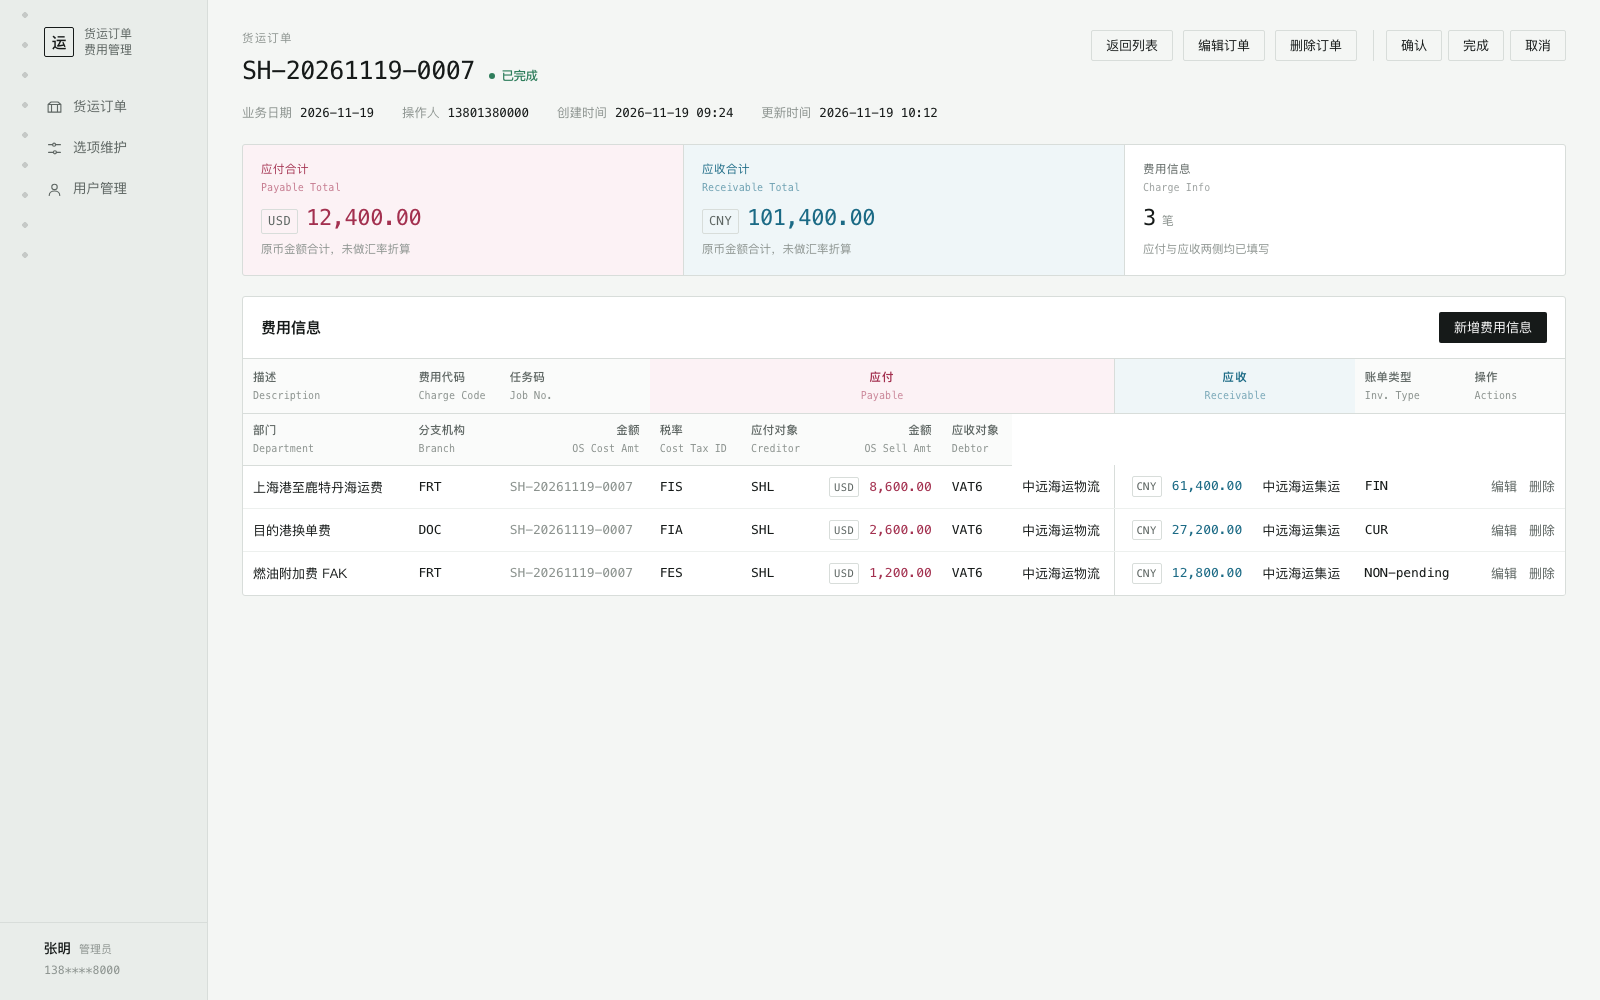
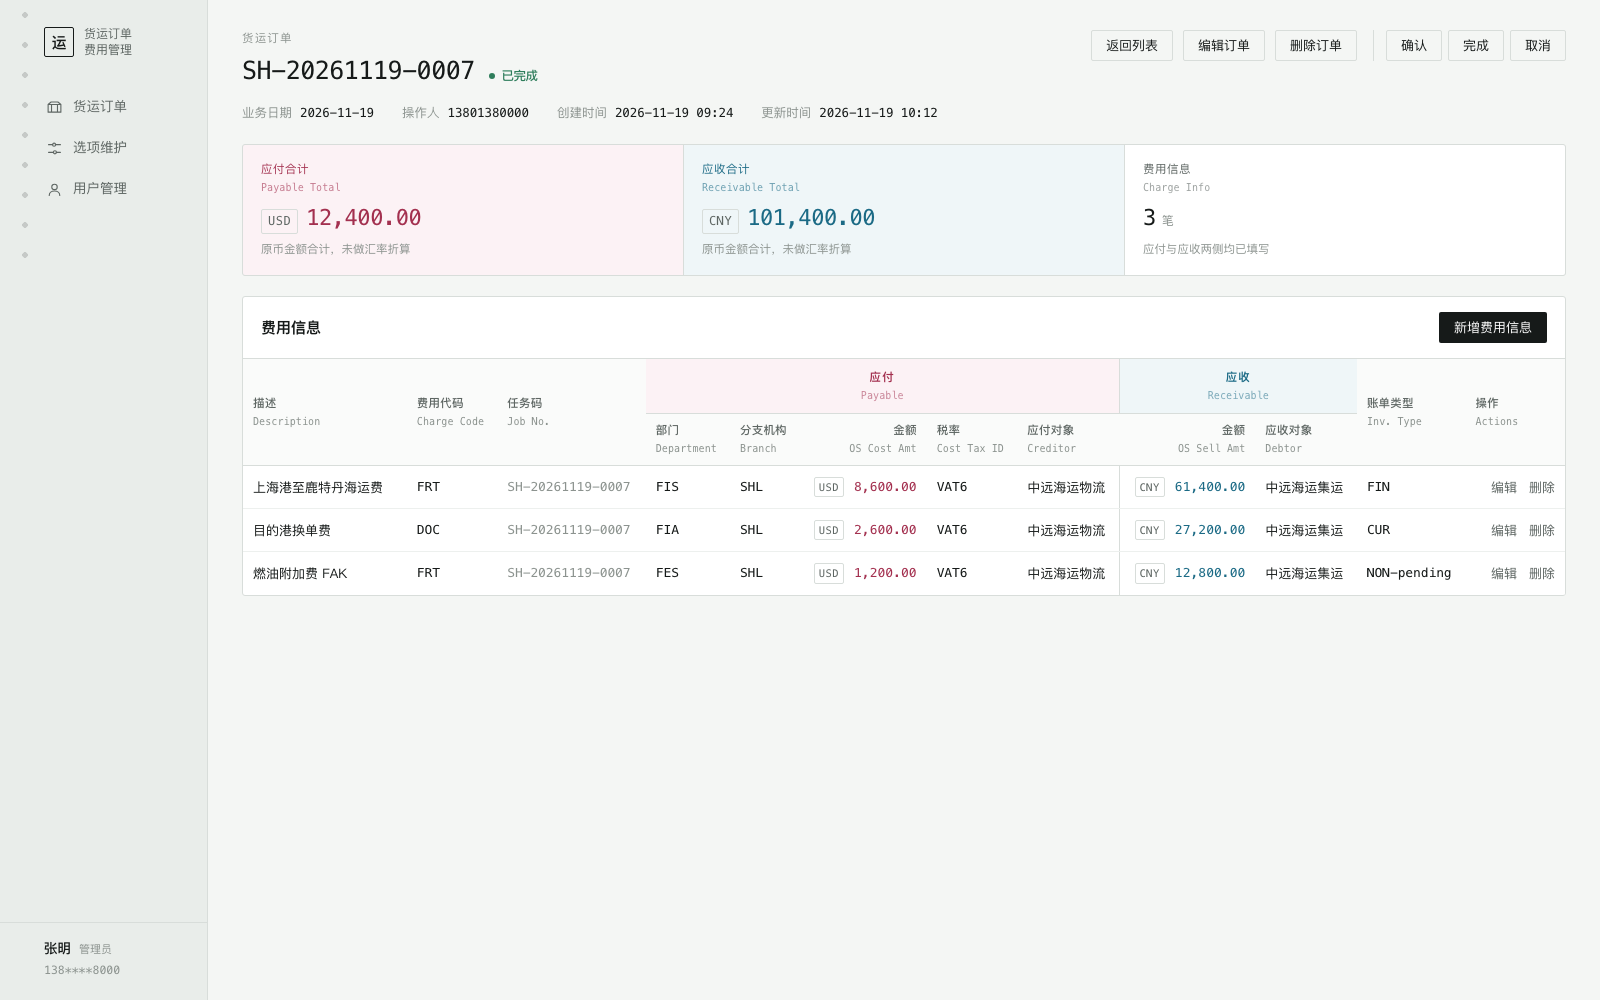
fix: 补回费用信息表跨行表头的 rowspan
第一行的 描述/费用代码/任务码/账单类型/操作 五个表头缺少
rowspan="2"，导致第二行的子表头从第一列开始排，而不是落在
「应付」与「应收」两个色带下面——应收带的「金额 / OS Sell Amt」
与「应收对象 / Debtor」被挤到了左侧，色带下方空着。

同时移除三个单行表头表格（货运订单列表、选项维护、用户管理）
里被误加的 rowspan。

diff --git a/prototype/index.html b/prototype/index.html
@@ -234,13 +234,13 @@
           <table class="tbl tbl-split">
             <thead>
               <tr>
-                <th class="lead"><span class="bi-cn">描述</span><span class="bi-en">Description</span></th>
-                <th class="lead"><span class="bi-cn">费用代码</span><span class="bi-en">Charge Code</span></th>
-                <th class="lead"><span class="bi-cn">任务码</span><span class="bi-en">Job No.</span></th>
+                <th rowspan="2" class="lead"><span class="bi-cn">描述</span><span class="bi-en">Description</span></th>
+                <th rowspan="2" class="lead"><span class="bi-cn">费用代码</span><span class="bi-en">Charge Code</span></th>
+                <th rowspan="2" class="lead"><span class="bi-cn">任务码</span><span class="bi-en">Job No.</span></th>
                 <th colspan="5" class="band band-pay"><span class="bi-cn">应付</span><span class="bi-en">Payable</span></th>
                 <th colspan="2" class="band band-rec"><span class="bi-cn">应收</span><span class="bi-en">Receivable</span></th>
-                <th class="lead"><span class="bi-cn">账单类型</span><span class="bi-en">Inv. Type</span></th>
-                <th class="act"><span class="bi-cn">操作</span><span class="bi-en">Actions</span></th>
+                <th rowspan="2" class="lead"><span class="bi-cn">账单类型</span><span class="bi-en">Inv. Type</span></th>
+                <th rowspan="2" class="act"><span class="bi-cn">操作</span><span class="bi-en">Actions</span></th>
               </tr>
               <tr>
                 <th><span class="bi-cn">部门</span><span class="bi-en">Department</span></th><th><span class="bi-cn">分支机构</span><span class="bi-en">Branch</span></th><th class="num"><span class="bi-cn">金额</span><span class="bi-en">OS Cost Amt</span></th><th><span class="bi-cn">税率</span><span class="bi-en">Cost Tax ID</span></th><th><span class="bi-cn">应付对象</span><span class="bi-en">Creditor</span></th><th class="num"><span class="bi-cn">金额</span><span class="bi-en">OS Sell Amt</span></th><th><span class="bi-cn">应收对象</span><span class="bi-en">Debtor</span></th>
